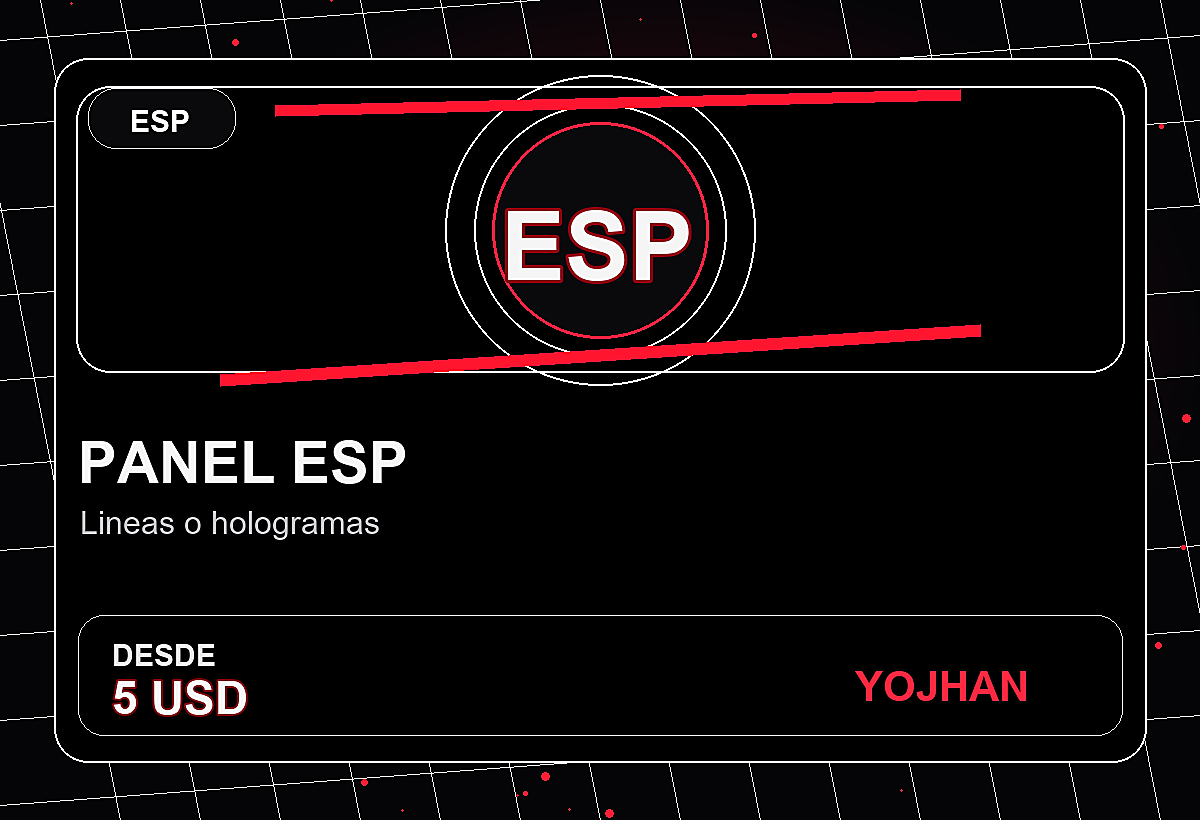
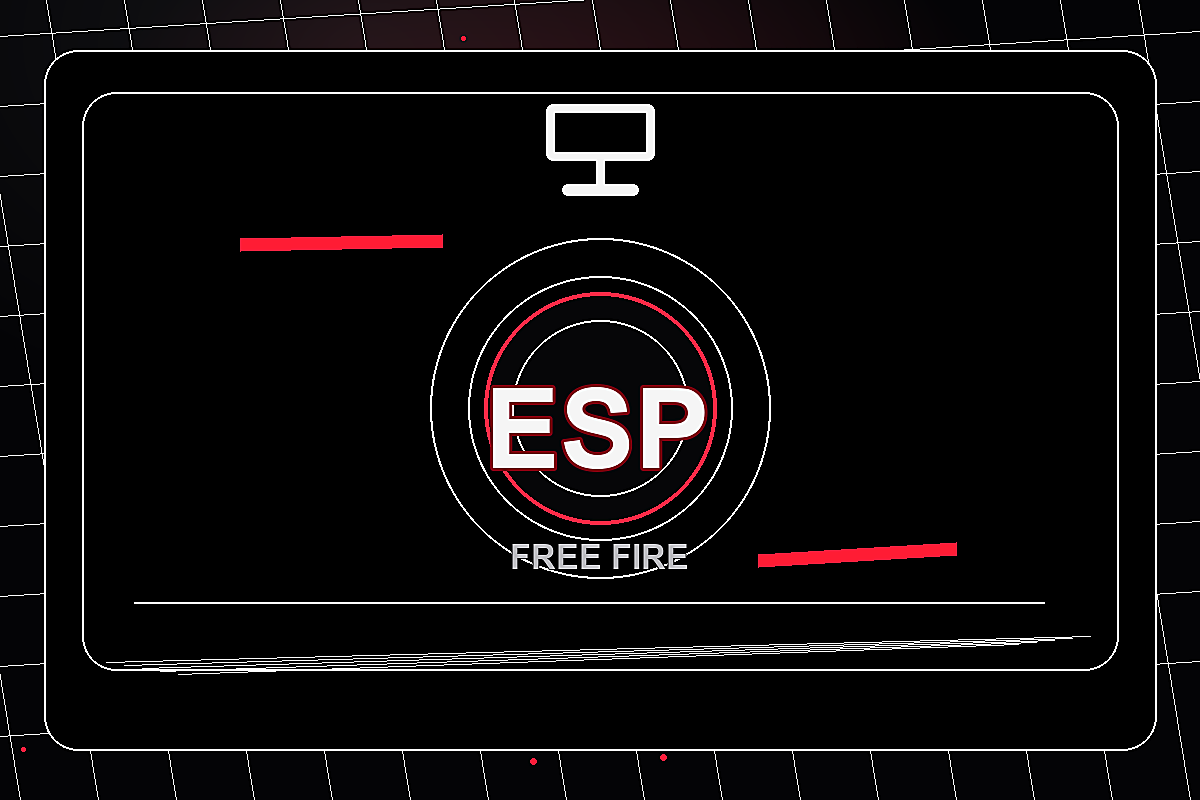
Add files via upload

diff --git a/scripts/generate-yojhan-assets.py b/scripts/generate-yojhan-assets.py
@@ -73,53 +73,56 @@ def text_center(draw, pos, text, fnt, fill=WHITE, stroke=BLACK, stroke_width=2):
 
 def product_card(filename, title, badge, subtitle, price_line, initials):
     random.seed(title)
-    w, h = 1200, 820
+    w, h = 1200, 800
     base = Image.new("RGB", (w, h), BLACK)
     px = base.load()
     for y in range(h):
         for x in range(w):
-            d = math.hypot((x - w * 0.55) / w, (y - h * 0.42) / h)
-            red_boost = max(0, 1 - d * 2.2)
+            d = math.hypot((x - w * 0.46) / w, (y - h * 0.28) / h)
+            red_boost = max(0, 1 - d * 2.35)
+            pale = max(0, 1 - math.hypot((x - w * 0.3) / w, (y - h * 0.05) / h) * 2.0)
             px[x, y] = (
-                min(255, int(5 + red_boost * 74)),
-                min(255, int(5 + red_boost * 8)),
-                min(255, int(8 + red_boost * 15)),
+                min(255, int(4 + red_boost * 50 + pale * 16)),
+                min(255, int(4 + red_boost * 6 + pale * 16)),
+                min(255, int(6 + red_boost * 10 + pale * 17)),
             )
 
     img = base.convert("RGBA")
     draw = ImageDraw.Draw(img, "RGBA")
 
-    for gx in range(-40, w, 80):
-        draw.line((gx, 0, gx + 160, h), fill=(255, 255, 255, 18), width=1)
-    for gy in range(40, h, 85):
-        draw.line((0, gy, w, gy - 90), fill=(255, 255, 255, 13), width=1)
+    for gx in range(-110, w + 110, 78):
+        draw.line((gx, 0, gx + 130, h), fill=(255, 255, 255, 15), width=1)
+    for gy in range(36, h, 70):
+        draw.line((0, gy, w, gy - 75), fill=(255, 255, 255, 11), width=1)
 
-    for i in range(42):
-        x = random.randint(0, w)
-        y = random.randint(0, h)
-        r = random.randint(1, 4)
-        draw.ellipse((x-r, y-r, x+r, y+r), fill=(255, 30, 50, random.randint(80, 180)))
+    for i in range(34):
+        x = random.randint(16, w - 16)
+        y = random.randint(16, h - 16)
+        r = random.randint(1, 3)
+        draw.ellipse((x-r, y-r, x+r, y+r), fill=(255, 28, 52, random.randint(70, 150)))
 
-    draw.rounded_rectangle((54, 58, w - 54, h - 58), radius=34, outline=(255, 255, 255, 75), width=2, fill=(0, 0, 0, 50))
-    draw.rounded_rectangle((76, 86, w - 76, 372), radius=34, outline=(255, 255, 255, 54), width=2, fill=(0, 0, 0, 80))
-    draw.rounded_rectangle((88, 88, 235, 148), radius=28, fill=(10, 10, 12, 230), outline=(255, 255, 255, 50), width=1)
-    text_center(draw, (161, 116), badge, font(30), fill=WHITE, stroke=(0, 0, 0), stroke_width=1)
+    draw.rounded_rectangle((44, 50, w - 44, h - 50), radius=34, outline=(255, 255, 255, 70), width=2, fill=(0, 0, 0, 46))
+    draw.rounded_rectangle((82, 92, w - 82, h - 130), radius=34, outline=(255, 255, 255, 48), width=2, fill=(0, 0, 0, 86))
+    cx, cy = w // 2, h // 2 + 8
+    glow_line(draw, (240, 244, 442, 240), fill=(255, 28, 52), width=4)
+    glow_line(draw, (758, 560, 956, 548), fill=(255, 28, 52), width=4)
+    draw.line((134, 602, 1044, 602), fill=(255, 255, 255, 62), width=2)
 
-    cx, cy = w // 2, 230
-    for radius, alpha in [(155, 28), (126, 44), (96, 70)]:
+    screen = (cx - 54, 104, cx + 54, 160)
+    draw.rounded_rectangle(screen, radius=7, outline=(244, 244, 244, 230), width=9)
+    draw.line((cx, 160, cx, 184), fill=(244, 244, 244, 230), width=9)
+    draw.rounded_rectangle((cx - 38, 184, cx + 38, 195), radius=5, fill=(244, 244, 244, 230))
+
+    for radius, alpha in [(170, 25), (132, 42), (97, 66)]:
         draw.ellipse((cx-radius, cy-radius, cx+radius, cy+radius), outline=(255, 255, 255, alpha), width=2)
-    draw.ellipse((cx-108, cy-108, cx+108, cy+108), fill=(10, 10, 12, 210), outline=(255, 30, 55, 180), width=3)
-    text_center(draw, (cx, cy + 2), initials, font(96), fill=WHITE, stroke=(140, 0, 22), stroke_width=3)
+    draw.ellipse((cx-116, cy-116, cx+116, cy+116), fill=(6, 6, 8, 214), outline=(255, 38, 62, 178), width=4)
+    draw.ellipse((cx-88, cy-88, cx+88, cy+88), outline=(255, 255, 255, 34), width=2)
+    text_center(draw, (cx, cy + 2), initials, font(112), fill=WHITE, stroke=(120, 0, 20), stroke_width=3)
+    text_center(draw, (cx, cy + 144), "FREE FIRE", font(34), fill=MUTED, stroke=(0, 0, 0), stroke_width=1)
 
-    glow_line(draw, (220, 380, 980, 330), width=3)
-    glow_line(draw, (275, 110, 960, 94), width=2)
-
-    draw.text((78, 430), title, font=font(58), fill=WHITE, stroke_fill=BLACK, stroke_width=2)
-    draw.text((80, 505), subtitle, font=font(32, False), fill=MUTED)
-    draw.rounded_rectangle((78, 615, w - 78, 735), radius=26, fill=(0, 0, 0, 145), outline=(255, 255, 255, 55), width=1)
-    draw.text((112, 638), "DESDE", font=font(30), fill=(220, 220, 220))
-    draw.text((112, 672), price_line, font=font(46), fill=WHITE, stroke_fill=(120, 0, 20), stroke_width=2)
-    draw.text((w - 345, 662), "YOJHAN", font=font(42), fill=(255, 40, 62), stroke_fill=BLACK, stroke_width=2)
+    for j in range(5):
+        offset = j * 18
+        draw.line((106 + offset, 662 + j * 3, 1090 - offset, 636 + j * 2), fill=(255, 255, 255, 18 - j * 2), width=1)
 
     img = img.filter(ImageFilter.UnsharpMask(radius=1.2, percent=110, threshold=3))
     img.convert("RGB").save(ASSETS / filename, quality=94)
